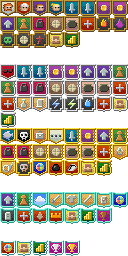
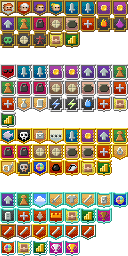
2.11.4: fixed Wand of Avalanche's badges
fixes #11

Changed region(s): [[0.0, 0.875, 0.75, 0.9375]]

diff --git a/core/src/main/java/com/shatteredpixel/shatteredpixeldungeon/Badges.java b/core/src/main/java/com/shatteredpixel/shatteredpixeldungeon/Badges.java
@@ -163,12 +163,12 @@ public class Badges {
 		HIGH_SCORE_4                ( 109 ),
 		CHAMPION_1                  ( 110 ),
 
-		WAND_QUEST_1,
-		WAND_QUEST_2,
-		WAND_QUEST_3,
-		WAND_QUEST_4,
-		WAND_QUEST_5,
-		WAND_QUEST_6,
+		WAND_QUEST_1				( 112 ),
+		WAND_QUEST_2				( 113 ),
+		WAND_QUEST_3				( 114 ),
+		WAND_QUEST_4				( 115 ),
+		WAND_QUEST_5				( 116 ),
+		WAND_QUEST_6				( 117 ),
 
 
 		//diamond
@@ -1102,7 +1102,8 @@ public class Badges {
 			{Badge.BOSS_SLAIN_1, Badge.BOSS_SLAIN_2, Badge.BOSS_SLAIN_3, Badge.BOSS_SLAIN_4},
 			{Badge.HIGH_SCORE_1, Badge.HIGH_SCORE_2, Badge.HIGH_SCORE_3, Badge.HIGH_SCORE_4, Badge.HIGH_SCORE_5},
 			{Badge.GAMES_PLAYED_1, Badge.GAMES_PLAYED_2, Badge.GAMES_PLAYED_3, Badge.GAMES_PLAYED_4, Badge.GAMES_PLAYED_5},
-			{Badge.CHAMPION_1, Badge.CHAMPION_2, Badge.CHAMPION_3}
+			{Badge.CHAMPION_1, Badge.CHAMPION_2, Badge.CHAMPION_3},
+			{Badge.WAND_QUEST_1, Badge.WAND_QUEST_2, Badge.WAND_QUEST_3, Badge.WAND_QUEST_4, Badge.WAND_QUEST_5, Badge.WAND_QUEST_6}
 	};
 
 	//don't show the later badge if the earlier one isn't unlocked
